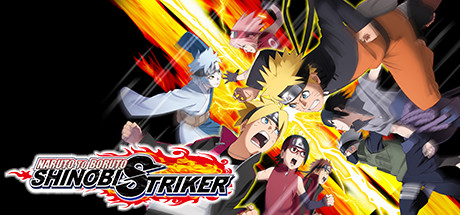
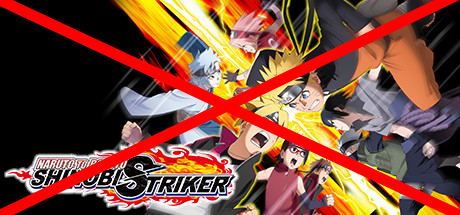
update no longer availables

Changed region(s): [[0.0, 0.0, 1.0, 1.0]]

diff --git a/index.html b/index.html
@@ -86,7 +86,8 @@
             <div class="card shadow-sm h-100">
               <a href="https://store.steampowered.com/app/1942660/WWE_2K23/"><img src="img/WWE_.png" width="100%" height="215" role="img" class="img-fluid"></a>
               <div class="card-body">
-                <p class="card-text">Sports, Simulation, Wrestling, Multiplayer, PvP, Co-op, Controller, Local Multiplayer, Singleplayer, Casual, Local Co-Op, 3D Fighter, 3D, 4 Player Local, Character Customization, Realistic, Online Co-Op, Fighting, Nudity, Sexual Content</p>
+                <p class="card-text"><strong>No Longer Available.</strong></p>
+                <p class="card-text"><del>Sports, Simulation, Wrestling, Multiplayer, PvP, Co-op, Controller, Local Multiplayer, Singleplayer, Casual, Local Co-Op, 3D Fighter, 3D, 4 Player Local, Character Customization, Realistic, Online Co-Op, Fighting, Nudity, Sexual Content</del></p>
               </div>
             </div>
           </div>
@@ -836,7 +837,8 @@
             <div class="card shadow-sm h-100">
               <a href="https://store.steampowered.com/app/633230/NARUTO_TO_BORUTO_SHINOBI_STRIKER/"><img src="img/NARUTO_TO_BORUTO_SHINOBI_STRIKER.png" width="100%" height="215" role="img" class="img-fluid"></a>
               <div class="card-body">
-                <p class="card-text">Anime, Action, Character Customization, Multiplayer, Fighting, Ninja, Co-op, PvP, Open World, Massively Multiplayer, RPG, Third Person, Controller, Adventure, Team-Based, Singleplayer, Online Co-Op, MMORPG, Strategy, MOBA</p>
+                <p class="card-text"><strong>No Longer Available.</strong></p>
+                <p class="card-text"><del>Anime, Action, Character Customization, Multiplayer, Fighting, Ninja, Co-op, PvP, Open World, Massively Multiplayer, RPG, Third Person, Controller, Adventure, Team-Based, Singleplayer, Online Co-Op, MMORPG, Strategy, MOBA</del></p>
               </div>
             </div>
           </div>
